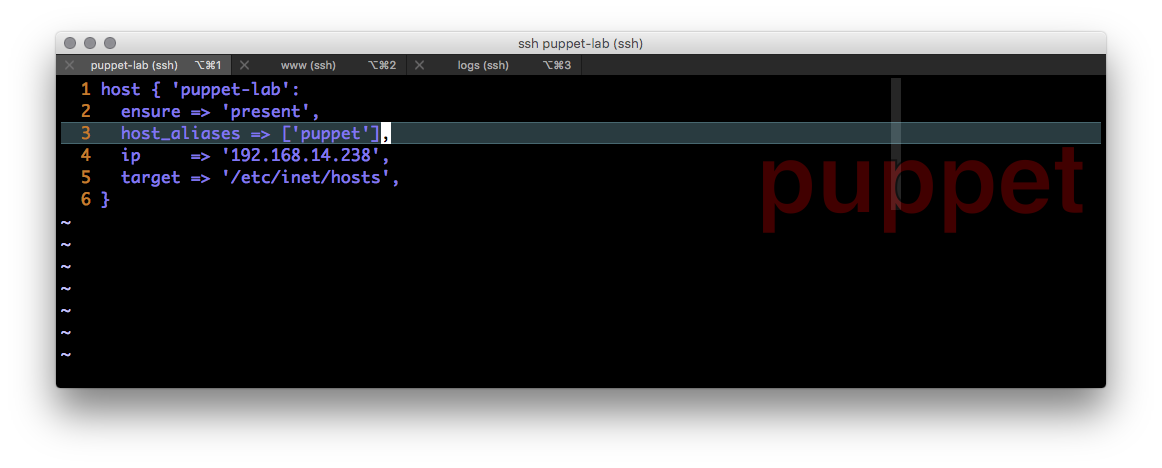
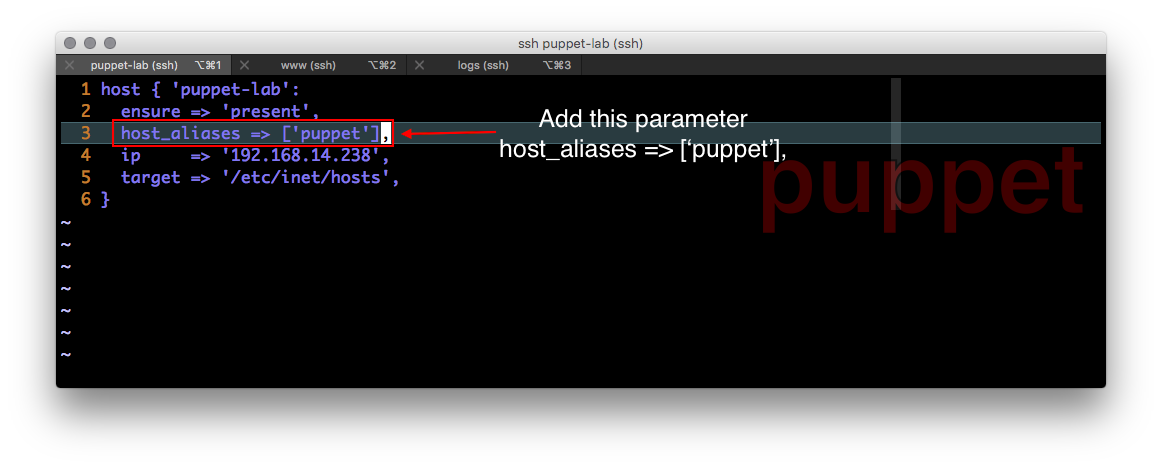
Revamp setup: enable section

diff --git a/setup/enable-puppet.md b/setup/enable-puppet.md
@@ -4,113 +4,190 @@ So far we have only executed puppet against a local manifest to bootstrap the la
 
 We are almost there but first we need to do a few more configration steps. It is possible to do all the remaining configuration via puppet manifests but we will use Solaris commands for some of the steps instead.
 
-![](/images/SETUP-008.0-svccfg-svcadm.png)
-
 ## Wait what's SMF and why can't I edit this file?
 
+The Solaris Service Management Facility replaces traditional init scripts. Solaris has added stencils to convert repository data into traditional configuration files, puppet.conf is one of the files managed via stencils.
+See [Introducing SMF Stencils](https://blogs.oracle.com/SolarisSMF/entry/introducing_smf_stencils) for much more information on the topic
+
+## Puppet.conf before configuration
+
+
+$$
+Command - 8
+$$
+
+
+1. No configuration data present
+  `cat /etc/puppet/puppet.conf`![](/images/SETUP-008-puppet-conf-before.png)
+
 ## Configure Puppet Master Server
-$$Command-9$$
 
-1. > svccfg -s puppet:master setprop config/server=puppet
 
- Change the config/server property to set the name of the puppet server. In this lab everyone should be able to use the server called 'puppet'. In your environment you would want to use the FQDN of your puppet master.
+$$
+Command-9
+$$
+
+
+1. Change the config\/server property on puppet:master to set the name of the puppet server. In this lab everyone should be able to use the server called 'puppet'. In your environment you would want to use the FQDN of your puppet master.
+
+  `svccfg -s puppet:master setprop config/server=puppet`
+
+  ![](/images/SETUP-009-svccfg-master.png)
+
 
 ## Configure Puppet Agent Server
-$$Command-10$$
 
-1. > svccfg -s puppet:agent setprop config/server=puppet
 
- Change the config/server property to set the name of the puppet server. In this lab everyone should be able to use the server called 'puppet'. In your environment you would want to use the FQDN of your puppet master.
+$$
+Command-10
+$$
+
+
+1. Change the config\/server property on puppet:agent to set the name of the puppet server. In this lab everyone should be able to use the server called 'puppet'. In your environment you would want to use the FQDN of your puppet master.
+
+  > svccfg -s puppet:agent setprop config\/server=puppet
+
+  ![](/images/SETUP-010-svccfg-agent.png)
+
 
 ## Refresh Master and Agent config
-$$Command-11$$
 
-1. > svcadm refresh puppet:master puppet:agent
 
- In the previous steps we changed the configuration we need to refresh the services for those changes to take effect.
+$$
+Command-11
+$$
+
+
+1. Refresh the services to reload the configuration
+
+  `svcadm refresh puppet:master puppet:agent`
+
+  ![](/images/SETUP-011-svcadm-refresh.png)
+
 
 ## Enable puppet:master and puppet:agent
-$$Command-12$$
 
-1. > svcadm enable puppet:master puppet:agent
 
- This starts both the master and agent daemons and writes the puppet.conf file with the configuration data stored in SMF
+$$
+Command-12
+$$
 
- ![](/images/SETUP-008.1-puppet-conf.png)
 
- As stated at the top of the file; this file is generated by SMF. Do not make manual changes to this file.
+1. This starts both the master and agent daemons and writes the puppet.conf file with the configuration data stored in SMF
+
+  `svcadm enable puppet:master puppet:agent`
+
+  ![](/images/SETUP-012-svcadm-enable.png)
+
+
+## Puppet.conf after smf configuration
+
+
+$$
+Command-13
+$$
+
+
+1. As stated at the top of the file; this file is generated by SMF. Do not make manual changes to this file.
+
+  ![](/images/SETUP-013-puppet-conf-after.png)
+  ![](/images/SETUP-013.1-puppet-conf-after.png)
+
 
 ## Mark the puppet:agent state to maintenance
-$$Command-13$$
 
-1. > svcadm mark maintenance puppet:agent
 
- Placing puppet:agent into maintanance state stops the puppet agent daemon from running and prevents later errors about puppet already running while we manually run the agent.
+$$
+Command-14
+$$
 
-## Check the state of the puppet:agent service
-$$Command-14$$
 
-1. > svcs puppet:agent
+1. Placing puppet:agent in maintanance state stops the puppet agent daemon from running and prevents later errors about puppet already running while we manually run the agent. Disabling `puppet:agent` or `puppet:master` will result in the `[agent]`or`[master]`stanzas being removed.
 
- ![](/images/SETUP-008.2-maintenance.png)
+  ![](/images/SETUP-014-svcadm-mark.png)
+
+
+## Check the state of the puppet:agent and puppet:master service
+
+
+$$
+Command-15
+$$
+
+
+1. View the state of the services
+  `svcs puppet:master puppet:agent`![](/images/SETUP-015-svcs.png)
 
 ## Run the puppet agent
-$$Command-16$$
 
-1. > puppet agent --test
 
- ![](/images/SETUP-008.3-agent--test.png)
+$$
+Command-16
+$$
 
- We haven't written any manifests at this time. Without a manifest defined we are simply testing the connection to the master.
 
- ### Wait, aren't we the master?
+1. We haven't written any manifests at this time. Without a manifest defined we are simply testing the connection to the master.
 
- Yes, the server called puppet-N is the master in the configuration. However, by default puppet uses a FQDN or a couple of well known aliases for the puppet server certificate. At this point in the configuration the puppet master cannot verify the identity of the agent and the agent is unable to verify the identity of the server.
+  `puppet agent -t`
+  ![](/images/SETUP-016-agent-test.png)
 
-## Finding the problem
-$$Command-23$$
+  ### Wait, aren't we the master? How do we not know who we are?
 
-1. > puppet resource host
+  Yes, the server called puppet-lab is the master in the configuration. However, by default puppet uses a FQDN or a couple of well known aliases for the puppet server certificate. At this point in the configuration the puppet master cannot verify the identity of the agent and the agent is unable to verify the identity of the server.
 
- Wait, what just happened? Almost all puppet providers know how to gather the state of an existing resource. Some will show you all the resources of that type, some will only show you the resource you pass on the command line. **Hint:** You can use this to output a valid puppet resource.
 
-2. Amoung other names we are expecting the puppet server to be called 'puppet', that name is not present in the current set of host resources.
+## Finding the problem \/ Fixing the problem
 
- ## ![](/images/SETUP-008.4-resource-host.png)Fixing the problem
-$$Command - 24$$
 
-1. > puppet resource host -e \`hostname\`
+$$
+Command-17
+$$
 
- Do as I say not as I screenshot. You are executing puppet resource host -e &lt;the name of your system&gt;. The -e option to puppet resource allows you to edit a resource or resources immediately after querying the configuration.![](/images/SETUP-008.5-resource-host-e.png)
 
-2. Write and quit the buffer. If the contents are unacceptable you can delete the whole of the contents and try again.
+1. Optionally run `puppet resource host`Wait, what just happened? Almost all puppet providers know how to gather the state of an existing resource. Some will show you all the resources of that type, some will only show you the resource you pass on the command line. **Hint:** You can use this to output a valid puppet resource.
 
-3. After writing the file puppet will execute the change as if you wrote a manifest snippet and applied it.
+2. Use `puppet resource <resource> -e` to make a quick and dirty change to a resource
+  `puppet resource -e host puppet-lab`
+  ![](/images/SETUP-017.0-resource.png)
 
- ![](/images/SETUP-008.6-resource-host-after.png)
+3. Add the `host_aliases => ['puppet'],` parameter and value. There is no automatic syntax highlighting or validation.
+  ![](/images/SETUP-017.1-resource-e.png)
+
 
 ## View the host resources again
-$$Command - 25$$
 
-1. > puppet resource host
 
- Note the entry in host\_aliases for puppet which was just added.
+$$
+Command - 18
+$$
 
-## Test the agent connection again 
-$$Command - 43$$
 
-1. I'm aware that the numbers aren't monotonically increasing.
+1. Note the entry in host\_aliases for puppet which was just added.
+
+  `puppet resource host puppet-lab`
+  ![](/images/SETUP-018-resource-after.png)
+
+
+## Test the agent connection again
+
+
+$$
+Command - 19
+$$
+
+
+1. `puppet agent -t`
+
+  ![](/images/SETUP-019.0-pluginsync.png)
 
 2. We still see warnings because we have not written any manifests for the nodes but the connection is successful.
 
- ![](/images/SETUP-008.7-puppet-agent-test.png)
-
- ![](/images/SETUP-008.8-puppet-agent-test-cont.png)
-
 3. Why are there all these changes if there are no manifests to drive changes?
 
- The puppet agent automatically downloads all of the plugins on the master at the start of each run. Generally that means you will only see this the first time and agent talks to the server and after any plugin is updated on the server.
+  The puppet agent automatically downloads all of the plugins on the master at the start of each run. Generally that means you will only see this the first time and agent talks to the server and after any plugin is updated on the server.
+
+  ![](/images/SETUP-019.1-pluginsync.png)
+
 
 This completes the basic configuration of the puppet server in this lab.
-
 
